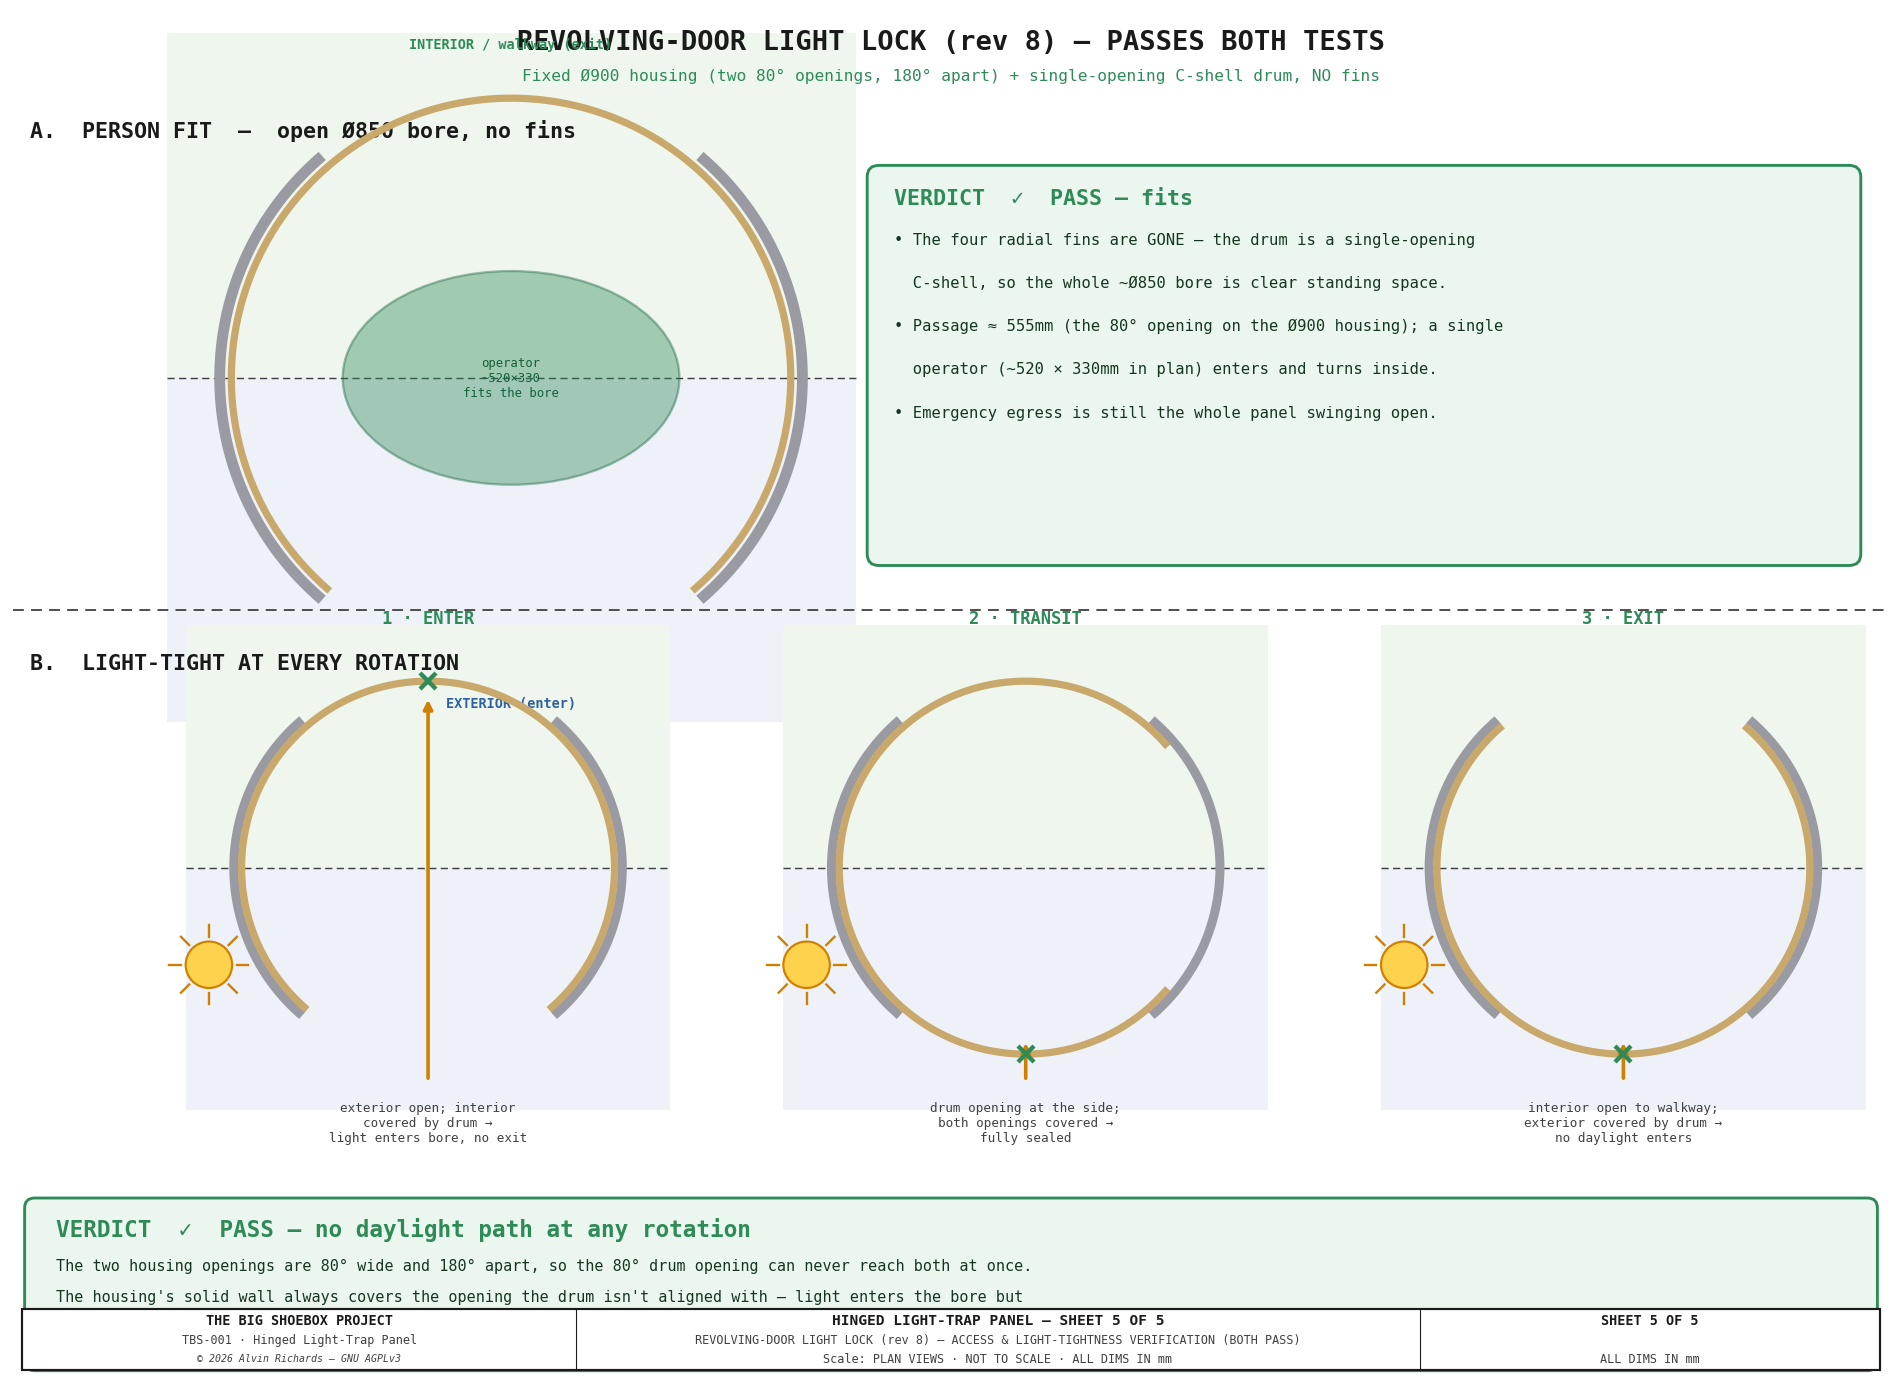
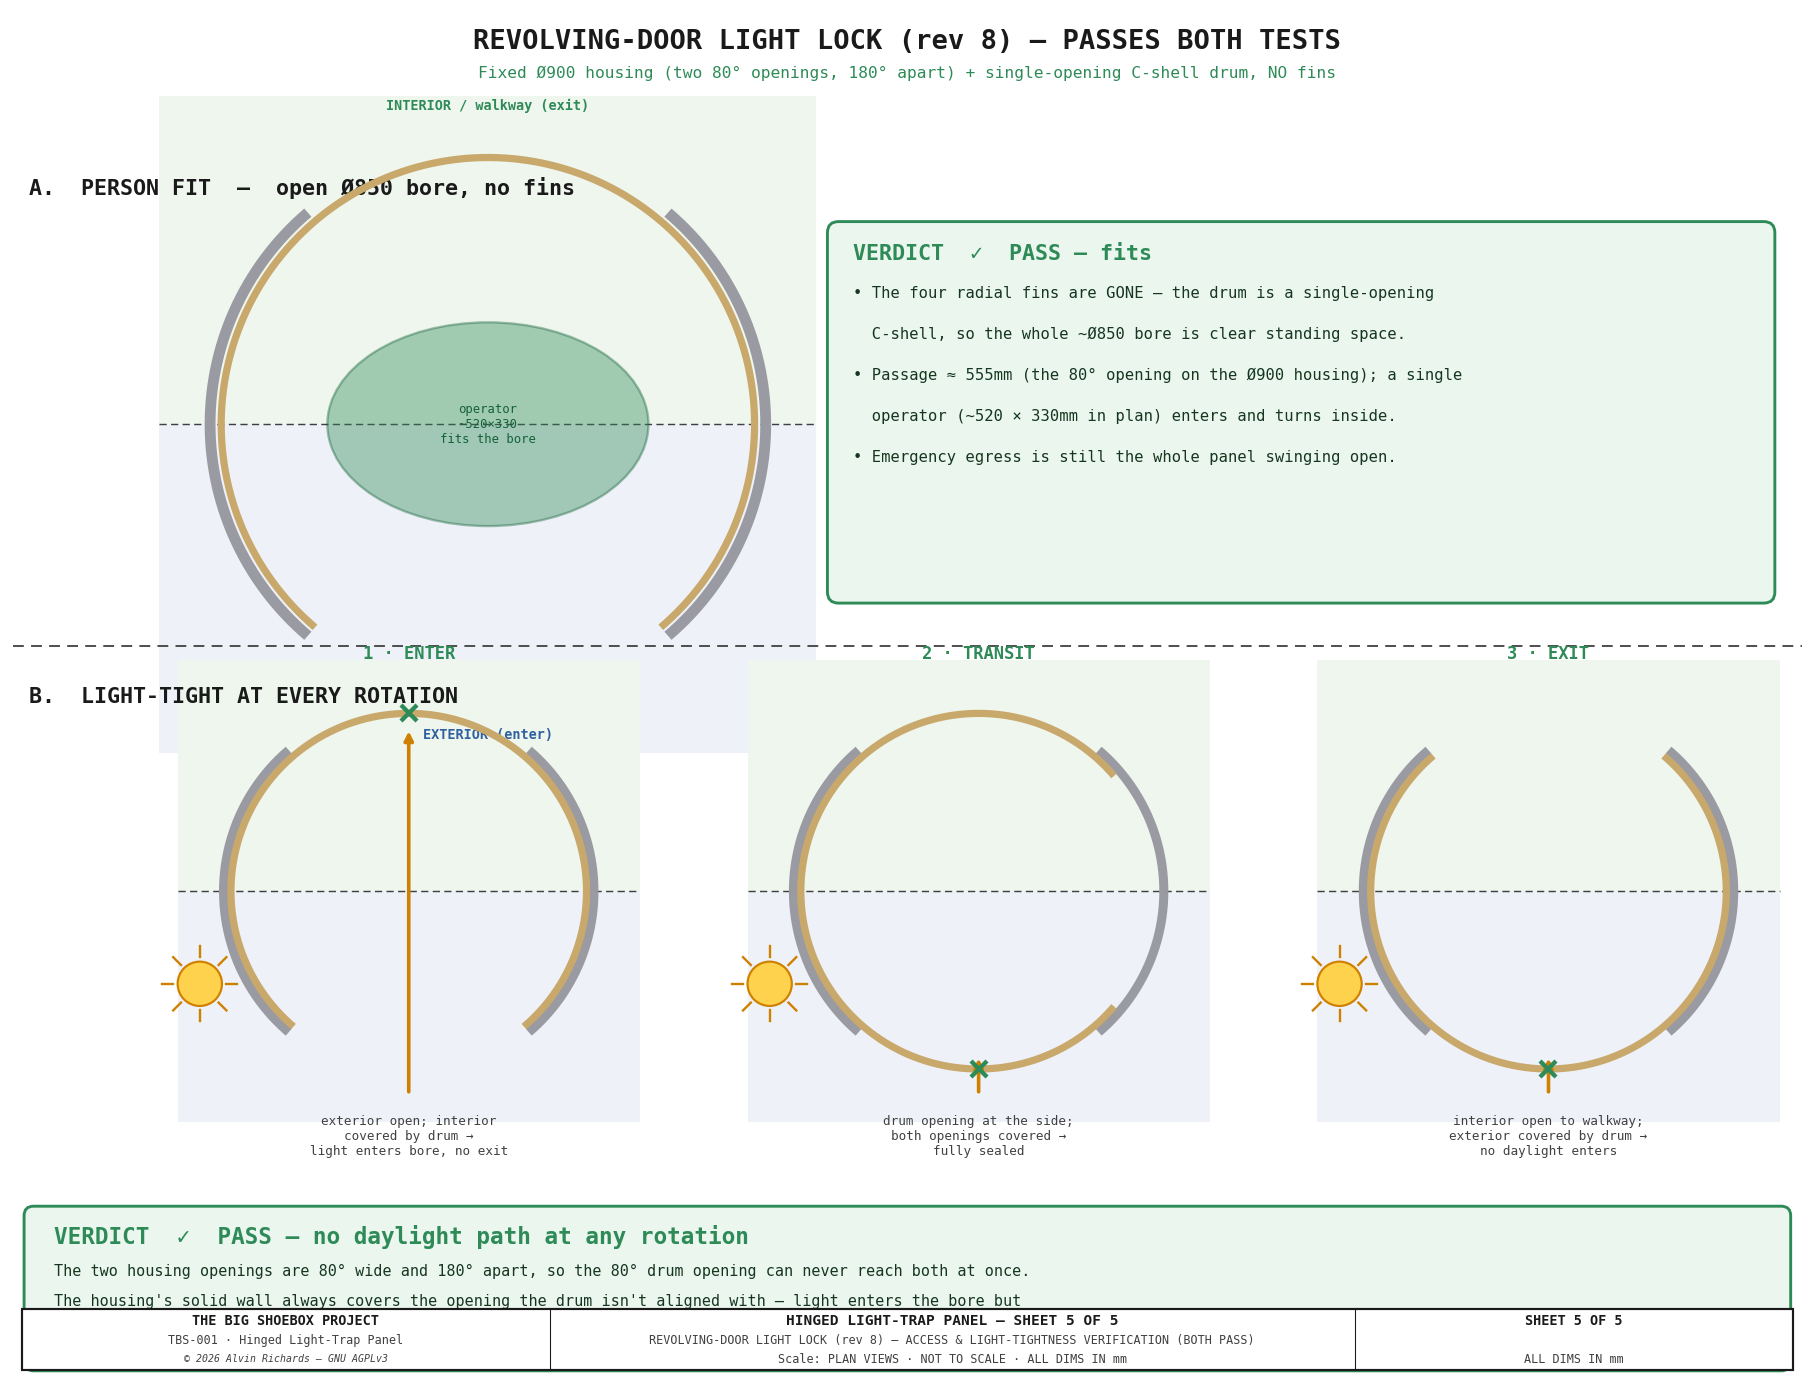
Label pass — Sheet 5: title headroom (rule 57)
The title + subtitle were crammed against the top edge and crowding Diagram A's 'interior'
label. Raise the ylim top (1380->1460) and lift the title/subtitle into the headroom so they
read clear of the top edge and the diagram labels. Sheet 5 content is unchanged (the drum
light-lock verification is current — the rotation changed the panel transport, not the drum).

diff --git a/src/generators/generate_hingepanel_diagram.py b/src/generators/generate_hingepanel_diagram.py
@@ -1350,7 +1350,7 @@ def sheet5():
 
     fig, ax = plt.subplots(figsize=(20, 13.6))
     fig.patch.set_facecolor(BG); ax.set_facecolor(BG)
-    ax.set_xlim(-130, 2130); ax.set_ylim(-260, 1380)
+    ax.set_xlim(-130, 2130); ax.set_ylim(-260, 1460)
     ax.set_aspect("equal"); ax.axis("off")
 
     def arc(cx, cy, r, gaps, lw, color, z=5):
@@ -1374,9 +1374,9 @@ def sheet5():
             ax.plot([x + s * 1.2 * np.cos(r), x + s * 1.7 * np.cos(r)],
                     [y + s * 1.2 * np.sin(r), y + s * 1.7 * np.sin(r)], color=AMBER, lw=1.3, zorder=8)
 
-    ax.text(1000, 1335, "REVOLVING-DOOR LIGHT LOCK (rev 8) — PASSES BOTH TESTS",
+    ax.text(1000, 1415, "REVOLVING-DOOR LIGHT LOCK (rev 8) — PASSES BOTH TESTS",
             ha="center", fontsize=15, fontweight="bold", color=C_OUT, **FONT)
-    ax.text(1000, 1298, "Fixed Ø900 housing (two 80° openings, 180° apart) + single-opening C-shell drum, NO fins",
+    ax.text(1000, 1378, "Fixed Ø900 housing (two 80° openings, 180° apart) + single-opening C-shell drum, NO fins",
             ha="center", fontsize=9, color=GREEN, **FONT)
     ax.plot([-130, 2130], [660, 660], color=C_DIM, lw=1.0, ls=(0, (6, 4)), zorder=3)
 
